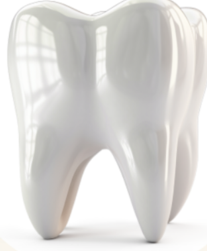
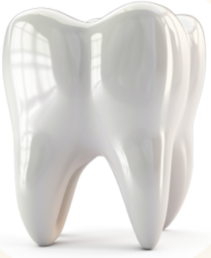
Add files via upload

diff --git a/index.html b/index.html
@@ -32,128 +32,7 @@
   <link rel="stylesheet" href="css/responsive.css" />
 </head>
 <body>
-  <!-- Icon sprite inlined directly (not loaded from a separate file) so
-       <use href="#icon-x"> references work with zero server, including
-       when index.html is opened directly via file://. -->
-  <!--
-    Icon sprite — a single set of <symbol> definitions referenced across the
-    site via <use href="#icon-name">. Icons are based on
-    the Lucide icon set (ISC license), stroke="currentColor" so each usage
-    inherits its color from CSS via `color`.
-  -->
-  <svg xmlns="http://www.w3.org/2000/svg" style="display:none">
-    <symbol id="icon-menu" viewBox="0 0 24 24" fill="none" stroke="currentColor" stroke-width="1.75" stroke-linecap="round" stroke-linejoin="round">
-      <path d="M4 5h16" /><path d="M4 12h16" /><path d="M4 19h16" />
-    </symbol>
-  
-    <symbol id="icon-x" viewBox="0 0 24 24" fill="none" stroke="currentColor" stroke-width="1.75" stroke-linecap="round" stroke-linejoin="round">
-      <path d="M18 6 6 18" /><path d="m6 6 12 12" />
-    </symbol>
-  
-    <symbol id="icon-phone" viewBox="0 0 24 24" fill="none" stroke="currentColor" stroke-width="1.75" stroke-linecap="round" stroke-linejoin="round">
-      <path d="M13.832 16.568a1 1 0 0 0 1.213-.303l.355-.465A2 2 0 0 1 17 15h3a2 2 0 0 1 2 2v3a2 2 0 0 1-2 2A18 18 0 0 1 2 4a2 2 0 0 1 2-2h3a2 2 0 0 1 2 2v3a2 2 0 0 1-.8 1.6l-.468.351a1 1 0 0 0-.292 1.233 14 14 0 0 0 6.392 6.384" />
-    </symbol>
-  
-    <symbol id="icon-anchor" viewBox="0 0 24 24" fill="none" stroke="currentColor" stroke-width="1.75" stroke-linecap="round" stroke-linejoin="round">
-      <path d="M12 6v16" /><path d="m19 13 2-1a9 9 0 0 1-18 0l2 1" /><path d="M9 11h6" /><circle cx="12" cy="4" r="2" />
-    </symbol>
-  
-    <symbol id="icon-sparkles" viewBox="0 0 24 24" fill="none" stroke="currentColor" stroke-width="1.75" stroke-linecap="round" stroke-linejoin="round">
-      <path d="M11.017 2.814a1 1 0 0 1 1.966 0l1.051 5.558a2 2 0 0 0 1.594 1.594l5.558 1.051a1 1 0 0 1 0 1.966l-5.558 1.051a2 2 0 0 0-1.594 1.594l-1.051 5.558a1 1 0 0 1-1.966 0l-1.051-5.558a2 2 0 0 0-1.594-1.594l-5.558-1.051a1 1 0 0 1 0-1.966l5.558-1.051a2 2 0 0 0 1.594-1.594z" />
-      <path d="M20 2v4" /><path d="M22 4h-4" /><circle cx="4" cy="20" r="2" />
-    </symbol>
-  
-    <symbol id="icon-align-center" viewBox="0 0 24 24" fill="none" stroke="currentColor" stroke-width="1.75" stroke-linecap="round" stroke-linejoin="round">
-      <path d="M21 5H3" /><path d="M17 12H7" /><path d="M19 19H5" />
-    </symbol>
-  
-    <symbol id="icon-sun" viewBox="0 0 24 24" fill="none" stroke="currentColor" stroke-width="1.75" stroke-linecap="round" stroke-linejoin="round">
-      <circle cx="12" cy="12" r="4" /><path d="M12 2v2" /><path d="M12 20v2" /><path d="m4.93 4.93 1.41 1.41" />
-      <path d="m17.66 17.66 1.41 1.41" /><path d="M2 12h2" /><path d="M20 12h2" /><path d="m6.34 17.66-1.41 1.41" /><path d="m19.07 4.93-1.41 1.41" />
-    </symbol>
-  
-    <symbol id="icon-layers" viewBox="0 0 24 24" fill="none" stroke="currentColor" stroke-width="1.75" stroke-linecap="round" stroke-linejoin="round">
-      <path d="M12.83 2.18a2 2 0 0 0-1.66 0L2.6 6.08a1 1 0 0 0 0 1.83l8.58 3.91a2 2 0 0 0 1.66 0l8.58-3.9a1 1 0 0 0 0-1.83z" />
-      <path d="M2 12a1 1 0 0 0 .58.91l8.6 3.91a2 2 0 0 0 1.65 0l8.58-3.9A1 1 0 0 0 22 12" />
-      <path d="M2 17a1 1 0 0 0 .58.91l8.6 3.91a2 2 0 0 0 1.65 0l8.58-3.9A1 1 0 0 0 22 17" />
-    </symbol>
-  
-    <symbol id="icon-microscope" viewBox="0 0 24 24" fill="none" stroke="currentColor" stroke-width="1.75" stroke-linecap="round" stroke-linejoin="round">
-      <path d="M6 18h8" /><path d="M3 22h18" /><path d="M14 22a7 7 0 1 0 0-14h-1" /><path d="M9 14h2" />
-      <path d="M9 12a2 2 0 0 1-2-2V6h6v4a2 2 0 0 1-2 2Z" /><path d="M12 6V3a1 1 0 0 0-1-1H9a1 1 0 0 0-1 1v3" />
-    </symbol>
-  
-    <symbol id="icon-smile" viewBox="0 0 24 24" fill="none" stroke="currentColor" stroke-width="1.75" stroke-linecap="round" stroke-linejoin="round">
-      <path d="M15 10V9" /><path d="M16.472 15a6 6 0 01-8.943 0" /><path d="M9 10V9" /><circle cx="12" cy="12" r="10" />
-    </symbol>
-  
-    <symbol id="icon-arrow-left" viewBox="0 0 24 24" fill="none" stroke="currentColor" stroke-width="1.75" stroke-linecap="round" stroke-linejoin="round">
-      <path d="m12 19-7-7 7-7" /><path d="M19 12H5" />
-    </symbol>
-  
-    <symbol id="icon-check-circle-2" viewBox="0 0 24 24" fill="none" stroke="currentColor" stroke-width="1.75" stroke-linecap="round" stroke-linejoin="round">
-      <circle cx="12" cy="12" r="10" /><path d="m9 12 2 2 4-4" />
-    </symbol>
-  
-    <symbol id="icon-graduation-cap" viewBox="0 0 24 24" fill="none" stroke="currentColor" stroke-width="1.75" stroke-linecap="round" stroke-linejoin="round">
-      <path d="M21.42 10.922a1 1 0 0 0-.019-1.838L12.83 5.18a2 2 0 0 0-1.66 0L2.6 9.08a1 1 0 0 0 0 1.832l8.57 3.908a2 2 0 0 0 1.66 0z" />
-      <path d="M22 10v6" /><path d="M6 12.5V16a6 3 0 0 0 12 0v-3.5" />
-    </symbol>
-  
-    <symbol id="icon-award" viewBox="0 0 24 24" fill="none" stroke="currentColor" stroke-width="1.75" stroke-linecap="round" stroke-linejoin="round">
-      <path d="m15.477 12.89 1.515 8.526a.5.5 0 0 1-.81.47l-3.58-2.687a1 1 0 0 0-1.197 0l-3.586 2.686a.5.5 0 0 1-.81-.469l1.514-8.526" />
-      <circle cx="12" cy="8" r="6" />
-    </symbol>
-  
-    <symbol id="icon-globe" viewBox="0 0 24 24" fill="none" stroke="currentColor" stroke-width="1.75" stroke-linecap="round" stroke-linejoin="round">
-      <circle cx="12" cy="12" r="10" /><path d="M12 2a14.5 14.5 0 0 0 0 20 14.5 14.5 0 0 0 0-20" /><path d="M2 12h20" />
-    </symbol>
-  
-    <symbol id="icon-map-pin" viewBox="0 0 24 24" fill="none" stroke="currentColor" stroke-width="1.75" stroke-linecap="round" stroke-linejoin="round">
-      <path d="M20 10c0 4.993-5.539 10.193-7.399 11.799a1 1 0 0 1-1.202 0C9.539 20.193 4 14.993 4 10a8 8 0 0 1 16 0" />
-      <circle cx="12" cy="10" r="3" />
-    </symbol>
-  
-    <symbol id="icon-message-circle" viewBox="0 0 24 24" fill="none" stroke="currentColor" stroke-width="1.75" stroke-linecap="round" stroke-linejoin="round">
-      <path d="M2.992 16.342a2 2 0 0 1 .094 1.167l-1.065 3.29a1 1 0 0 0 1.236 1.168l3.413-.998a2 2 0 0 1 1.099.092 10 10 0 1 0-4.777-4.719" />
-    </symbol>
-  
-    <symbol id="icon-mail" viewBox="0 0 24 24" fill="none" stroke="currentColor" stroke-width="1.75" stroke-linecap="round" stroke-linejoin="round">
-      <path d="m22 7-8.991 5.727a2 2 0 0 1-2.009 0L2 7" /><rect x="2" y="4" width="20" height="16" rx="2" />
-    </symbol>
-  
-    <symbol id="icon-clock" viewBox="0 0 24 24" fill="none" stroke="currentColor" stroke-width="1.75" stroke-linecap="round" stroke-linejoin="round">
-      <circle cx="12" cy="12" r="10" /><path d="M12 6v6l4 2" />
-    </symbol>
-  
-    <symbol id="icon-star" viewBox="0 0 24 24" fill="currentColor" stroke="currentColor" stroke-width="1.75" stroke-linecap="round" stroke-linejoin="round">
-      <path d="M11.525 2.295a.53.53 0 0 1 .95 0l2.31 4.679a2.123 2.123 0 0 0 1.595 1.16l5.166.756a.53.53 0 0 1 .294.904l-3.736 3.638a2.123 2.123 0 0 0-.611 1.878l.882 5.14a.53.53 0 0 1-.771.56l-4.618-2.428a2.122 2.122 0 0 0-1.973 0L6.396 21.01a.53.53 0 0 1-.77-.56l.881-5.139a2.122 2.122 0 0 0-.611-1.879L2.16 9.795a.53.53 0 0 1 .294-.906l5.165-.755a2.122 2.122 0 0 0 1.597-1.16z" />
-    </symbol>
-  
-    <symbol id="icon-arrow-up" viewBox="0 0 24 24" fill="none" stroke="currentColor" stroke-width="1.75" stroke-linecap="round" stroke-linejoin="round">
-      <path d="m5 12 7-7 7 7" /><path d="M12 19V5" />
-    </symbol>
-  
-    <symbol id="icon-calendar-check" viewBox="0 0 24 24" fill="none" stroke="currentColor" stroke-width="1.75" stroke-linecap="round" stroke-linejoin="round">
-      <path d="M8 2v3" /><path d="M16 2v3" /><rect x="3" y="3" width="18" height="18" rx="2" /><path d="M3 9h18" /><path d="m9 15 2 2 4-4" />
-    </symbol>
-  
-    <symbol id="icon-loader-2" viewBox="0 0 24 24" fill="none" stroke="currentColor" stroke-width="1.75" stroke-linecap="round" stroke-linejoin="round">
-      <path d="M21 12a9 9 0 1 1-6.219-8.56" />
-    </symbol>
-  
-    <symbol id="icon-chevron-down" viewBox="0 0 24 24" fill="none" stroke="currentColor" stroke-width="1.75" stroke-linecap="round" stroke-linejoin="round">
-      <path d="m6 9 6 6 6-6" />
-    </symbol>
-  
-    <symbol id="icon-activity" viewBox="0 0 24 24" fill="none" stroke="currentColor" stroke-width="1.75" stroke-linecap="round" stroke-linejoin="round">
-      <path d="M22 12h-2.48a2 2 0 0 0-1.93 1.46l-2.35 8.36a.25.25 0 0 1-.48 0L9.24 2.18a.25.25 0 0 0-.48 0l-2.35 8.36A2 2 0 0 1 4.49 12H2" />
-    </symbol>
-  
-    <symbol id="icon-move-horizontal" viewBox="0 0 24 24" fill="none" stroke="currentColor" stroke-width="1.75" stroke-linecap="round" stroke-linejoin="round">
-      <path d="m18 8 4 4-4 4" /><path d="M2 12h20" /><path d="m6 8-4 4 4 4" />
-    </symbol>
-  </svg>
+
 
   <a class="skip-link visually-hidden" href="#main-content">تخطَّ إلى المحتوى الرئيسي</a>
 
@@ -161,7 +40,7 @@
   <header class="site-header">
     <div class="container site-header__bar">
       <a href="#home" class="site-header__brand" data-nav-link>
-        <span class="site-header__mark" aria-hidden="true">SC</span>
+        <span class="site-header__mark" aria-hidden="true"><img src="assets/images/ssss.png" alt=""></span>
         <span class="site-header__brand-text">
           <span class="site-header__brand-name">سمايل كلينيك</span>
           <span class="site-header__brand-doctor">د. جرجس نبيل</span>
@@ -223,7 +102,7 @@
     <section id="home" class="hero">
       <div class="container hero__grid">
         <div class="rise">
-          
+         
           <h1 class="hero__title">ابتسامتك تستحق رعاية دقيقة</h1>
           <p class="hero__desc">
             د. جرجس نبيل — أخصائي طب الأسنان التجميلي بخبرة تتجاوز ١٢ عاماً. نقدّم خطة علاج واضحة

diff --git a/css/components.css b/css/components.css
@@ -311,7 +311,7 @@
 .hero__stats {
   margin-top: 2.5rem;
   display: grid;
-  grid-template-columns: repeat(2, 1fr);
+  grid-template-columns: repeat(3, 1fr);
   gap: 1.5rem;
   border-block-start: 1px solid var(--color-border);
   padding-top: 2rem;
